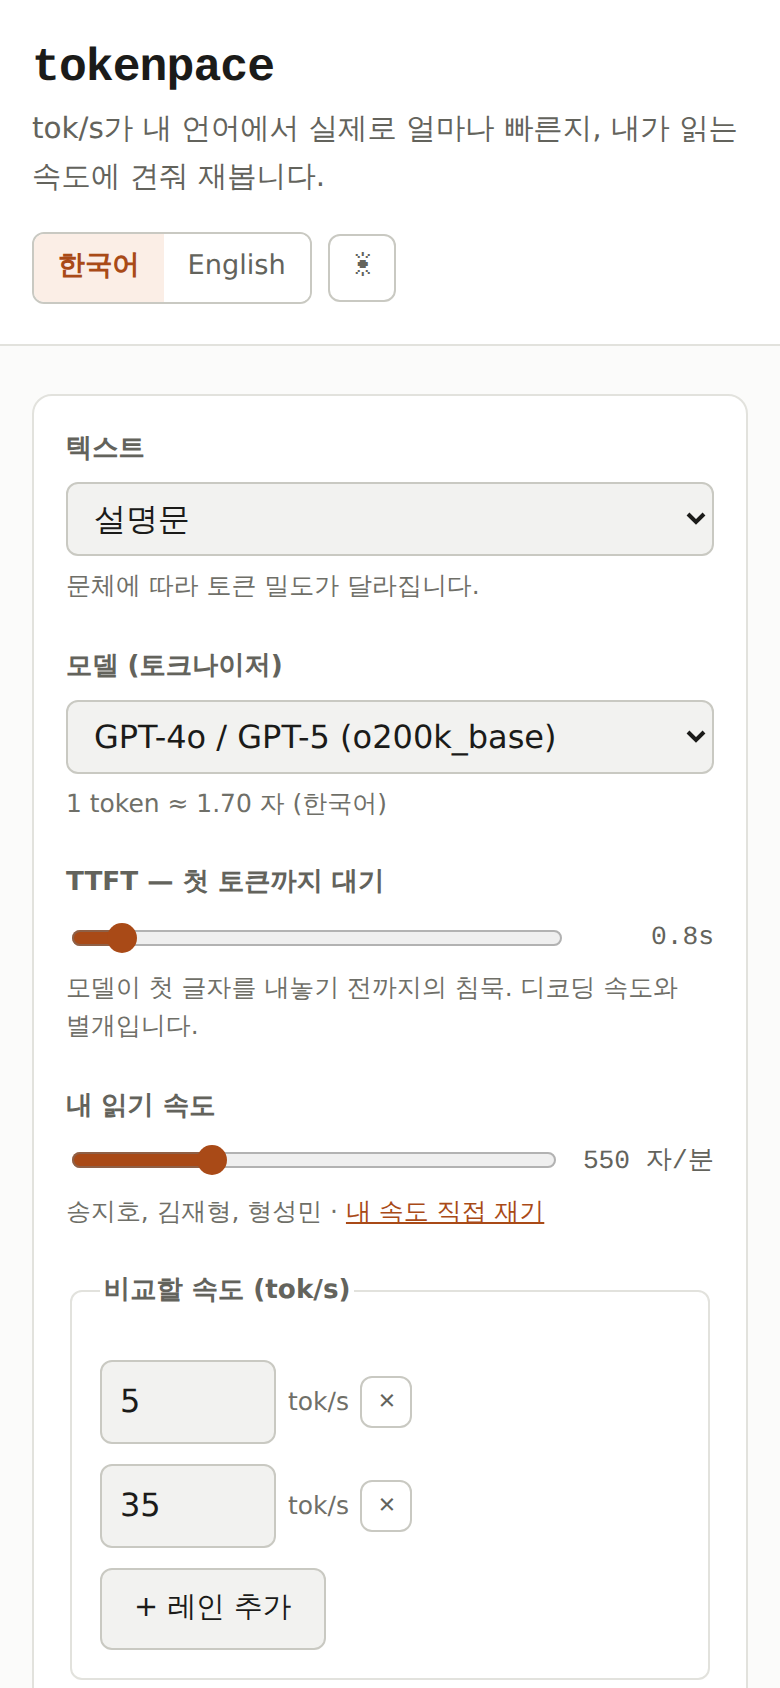
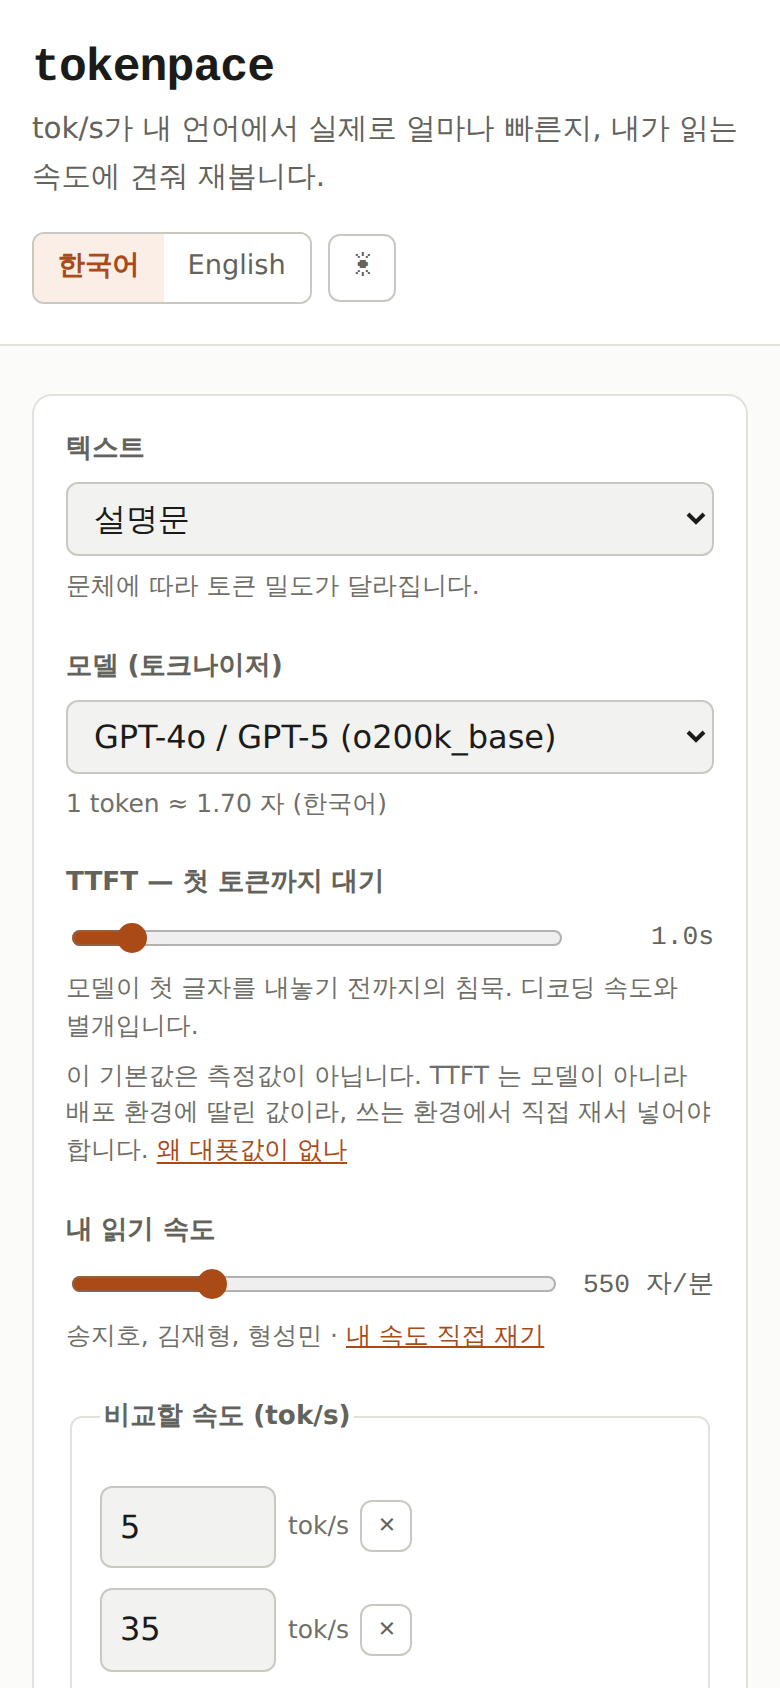
fix: the TTFT default was a number nobody measured
CONTRIBUTING's first non-negotiable rule is that no figure ships without
a source or a script. The TTFT slider defaulted to 0.8 seconds, which had
neither. It appeared exactly twice in the tree, as a bare literal, sitting
beside constants that were measured — and looking identical to them. The
project refuses to ship a Japanese reading baseline for want of a source
while shipping this.

Tried to measure it. The obvious rig was here: an RTX 3090 running a 27B
Q4 model under Ollama, which is precisely the local-inference case the
conclusion is aimed at. The device was fully occupied by unrelated work
at the time — 24 GB of 24 GB resident, 100% utilisation — and prefill
latency measured against a saturated GPU would have been a number about
the queue. Not run, and recorded as not run.

So the gap stays, and stops being invisible:

- data/ttft-sources.json, shaped like data/reading-speed-sources.json,
  says there is no representative value and why one cannot exist — TTFT
  is a property of a deployment, not of a model, and moves by more than
  two orders of magnitude across them. It also records why a public
  leaderboard median was rejected: it cannot be re-derived here, and it
  would rot silently between measurements.
- The default moves 0.8 → 1. The magnitude was never the lie; the
  decimal place was. A number written to a tenth reads as measured.
- The page says it, next to the control, in both languages, and links to
[…]

diff --git a/assets/js/i18n.js b/assets/js/i18n.js
@@ -21,6 +21,8 @@ export const STRINGS = {
     labelModel: '모델 (토크나이저)',
     labelTtft: 'TTFT — 첫 토큰까지 대기',
     hintTtft: '모델이 첫 글자를 내놓기 전까지의 침묵. 디코딩 속도와 별개입니다.',
+    hintTtftUnmeasured: '이 기본값은 측정값이 아닙니다. TTFT 는 모델이 아니라 배포 환경에 딸린 값이라, 쓰는 환경에서 직접 재서 넣어야 합니다.',
+    hintTtftWhy: '왜 대푯값이 없나',
     labelReading: '내 읽기 속도',
     labelLanes: '비교할 속도 (tok/s)',
     addLane: '+ 레인 추가',
@@ -110,6 +112,8 @@ export const STRINGS = {
     labelModel: 'Model (tokenizer)',
     labelTtft: 'TTFT — wait before the first token',
     hintTtft: 'The silence before the first character appears. Independent of decoding speed.',
+    hintTtftUnmeasured: 'This default is not a measurement. TTFT belongs to a deployment, not to a model, so the figure to use is the one your own setup gives you.',
+    hintTtftWhy: 'why there is no typical figure',
     labelReading: 'My reading speed',
     labelLanes: 'Speeds to compare (tok/s)',
     addLane: '+ Add lane',

diff --git a/index.html b/index.html
@@ -86,10 +86,14 @@
       <div class="field">
         <label for="ttft-input" data-i18n="labelTtft">TTFT — 첫 토큰까지 대기</label>
         <div class="slider-row">
-          <input type="range" id="ttft-input" min="0" max="10" step="0.1" value="0.8">
-          <output for="ttft-input" id="ttft-output" class="numout">0.8s</output>
+          <input type="range" id="ttft-input" min="0" max="10" step="0.1" value="1.0">
+          <output for="ttft-input" id="ttft-output" class="numout">1.0s</output>
         </div>
         <p class="hint" data-i18n="hintTtft">모델이 첫 글자를 내놓기 전까지의 침묵. 디코딩 속도와 별개입니다.</p>
+        <p class="hint">
+          <span data-i18n="hintTtftUnmeasured">이 기본값은 측정값이 아닙니다 — 쓰는 환경에서 직접 재야 하는 값입니다.</span>
+          <a href="data/ttft-sources.json" data-i18n="hintTtftWhy">왜 대푯값이 없나</a>
+        </p>
       </div>
 
       <div class="field">

diff --git a/assets/js/url-state.js b/assets/js/url-state.js
@@ -14,7 +14,10 @@ export const DEFAULTS = {
   sample: 'explainer',
   tokenizer: 'o200k_base',
   speeds: [5, 10, 35],
-  ttft: 0.8,
+  // A setting, not a measurement. Nothing here has measured a representative
+  // TTFT and one number could not be representative anyway — see
+  // data/ttft-sources.json, which check-site.mjs holds this literal to.
+  ttft: 1,
   reading: null, // null = use the sourced default for the language
   theme: 'auto',
 };

diff --git a/README.md b/README.md
@@ -45,7 +45,13 @@ implicitly English-only. Ours ships six tokenizers × four languages, measured o
 
 **2. TTFT is included.** The wait before the first token is most of what "slow"
 feels like once decoding is fast, and the tools that mention it mostly exclude
-it on purpose.
+it on purpose. What this project does *not* do is tell you what a typical TTFT
+is. There is no such number: TTFT belongs to a deployment — hardware,
+quantisation, prompt length, cache state, queue depth — and moves across more
+than two orders of magnitude between them. The slider starts at a round one
+second, the page says on its face that this is a setting rather than a
+measurement, and [`data/ttft-sources.json`](data/ttft-sources.json) records why
+and what would have to be measured to replace it.
 
 **3. There is a baseline.** "Is 35 tok/s fast" has no answer. "Does 35 tok/s
 outrun me" does. Human reading speed converts to roughly **5 tok/s** — close
